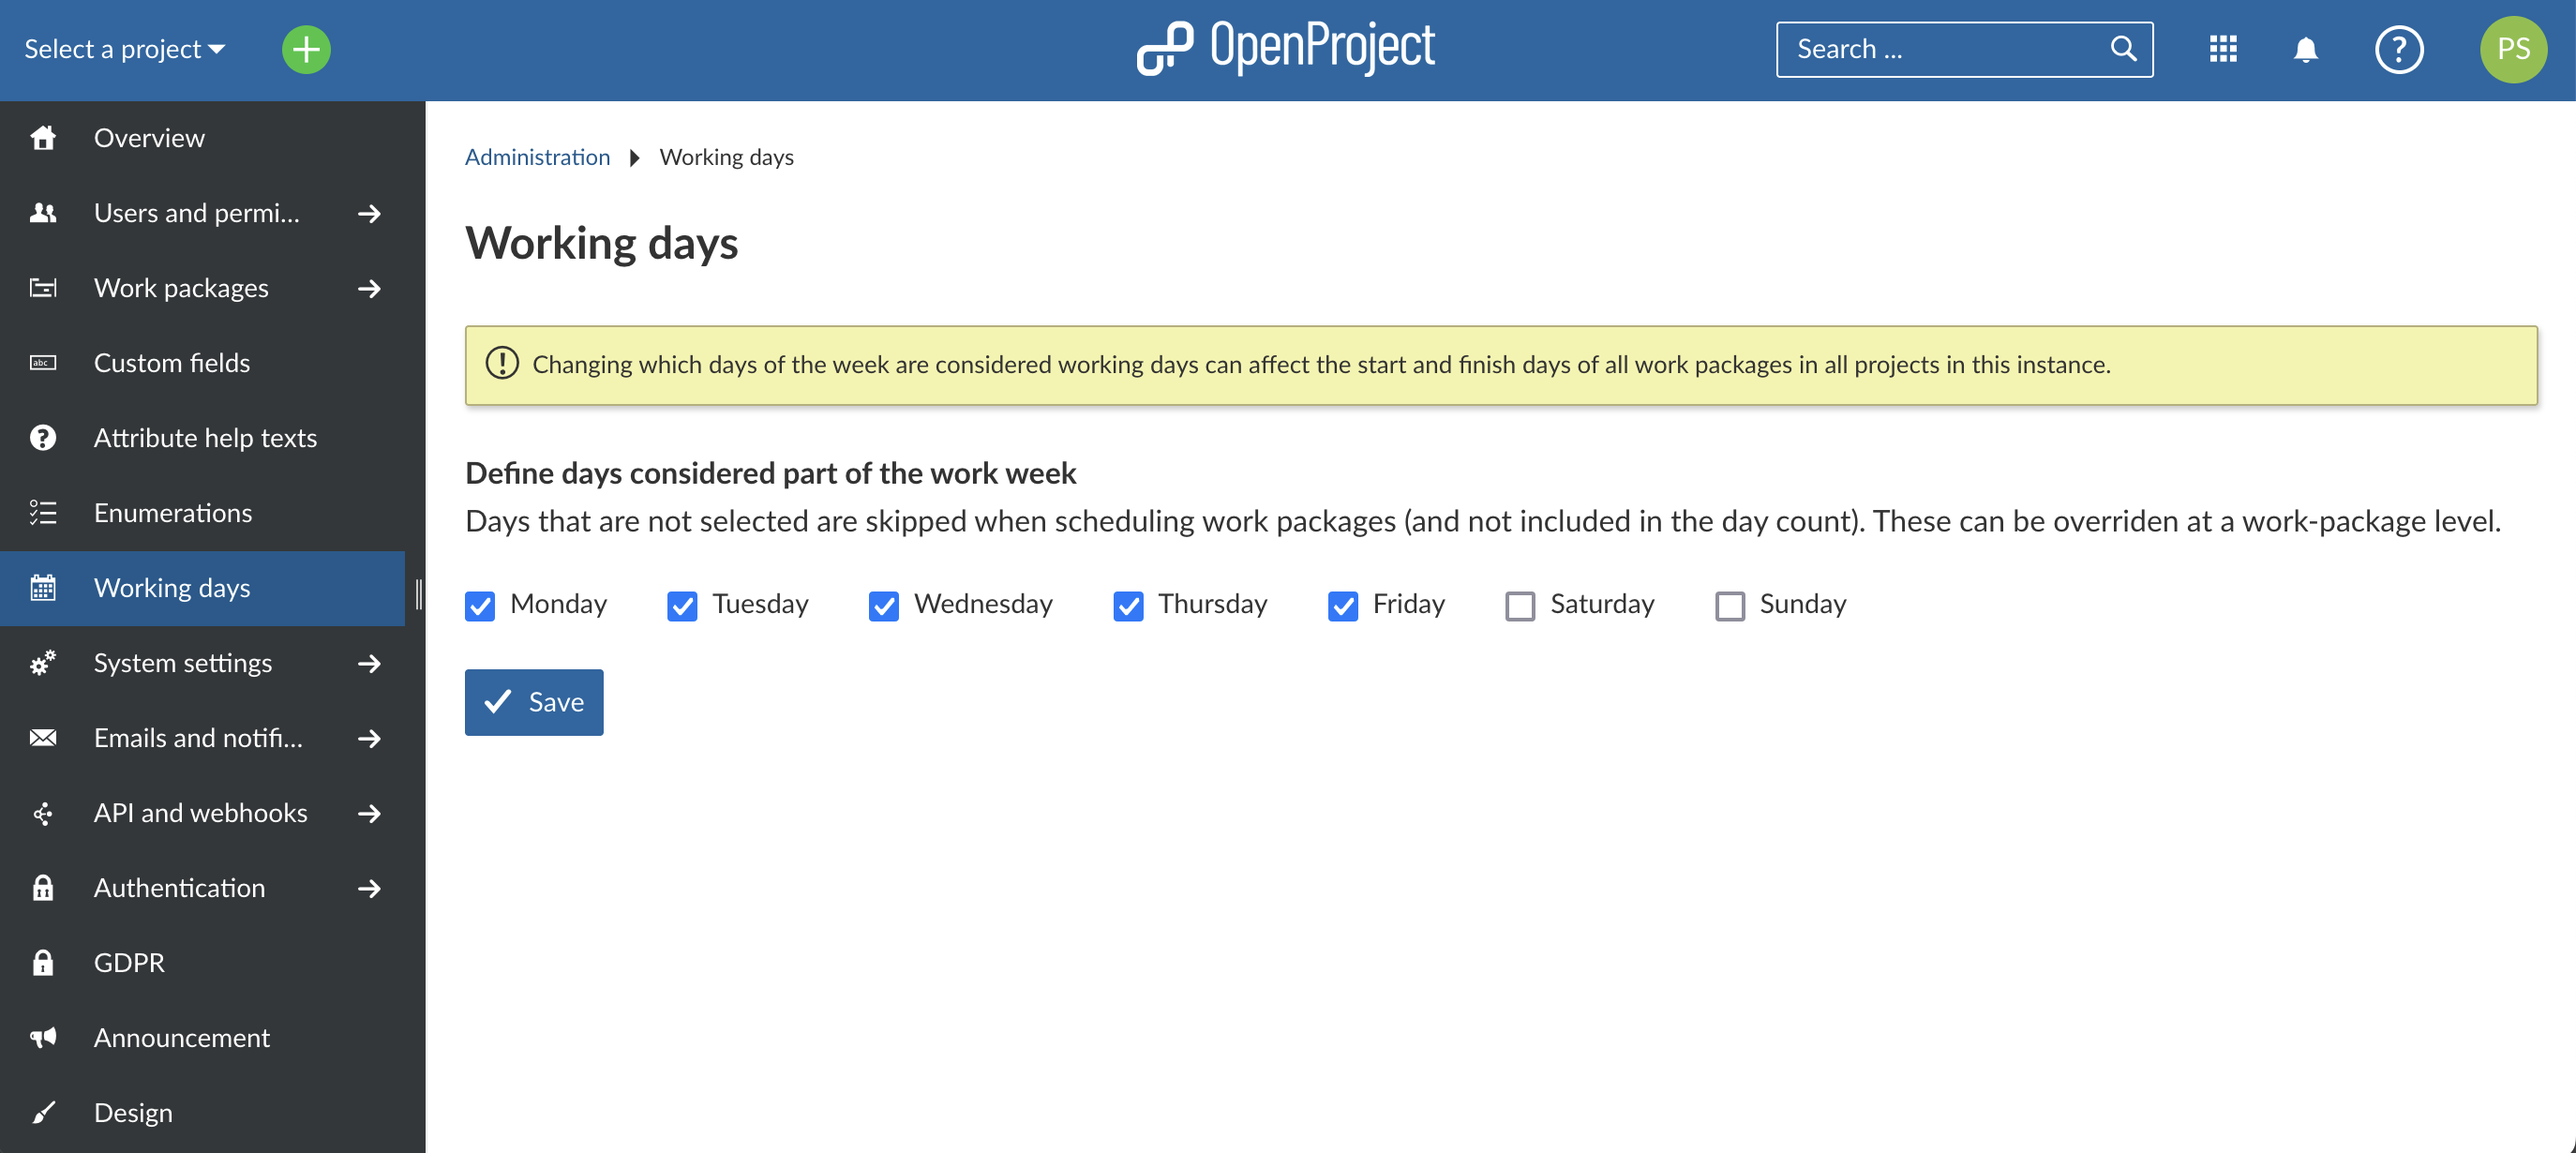
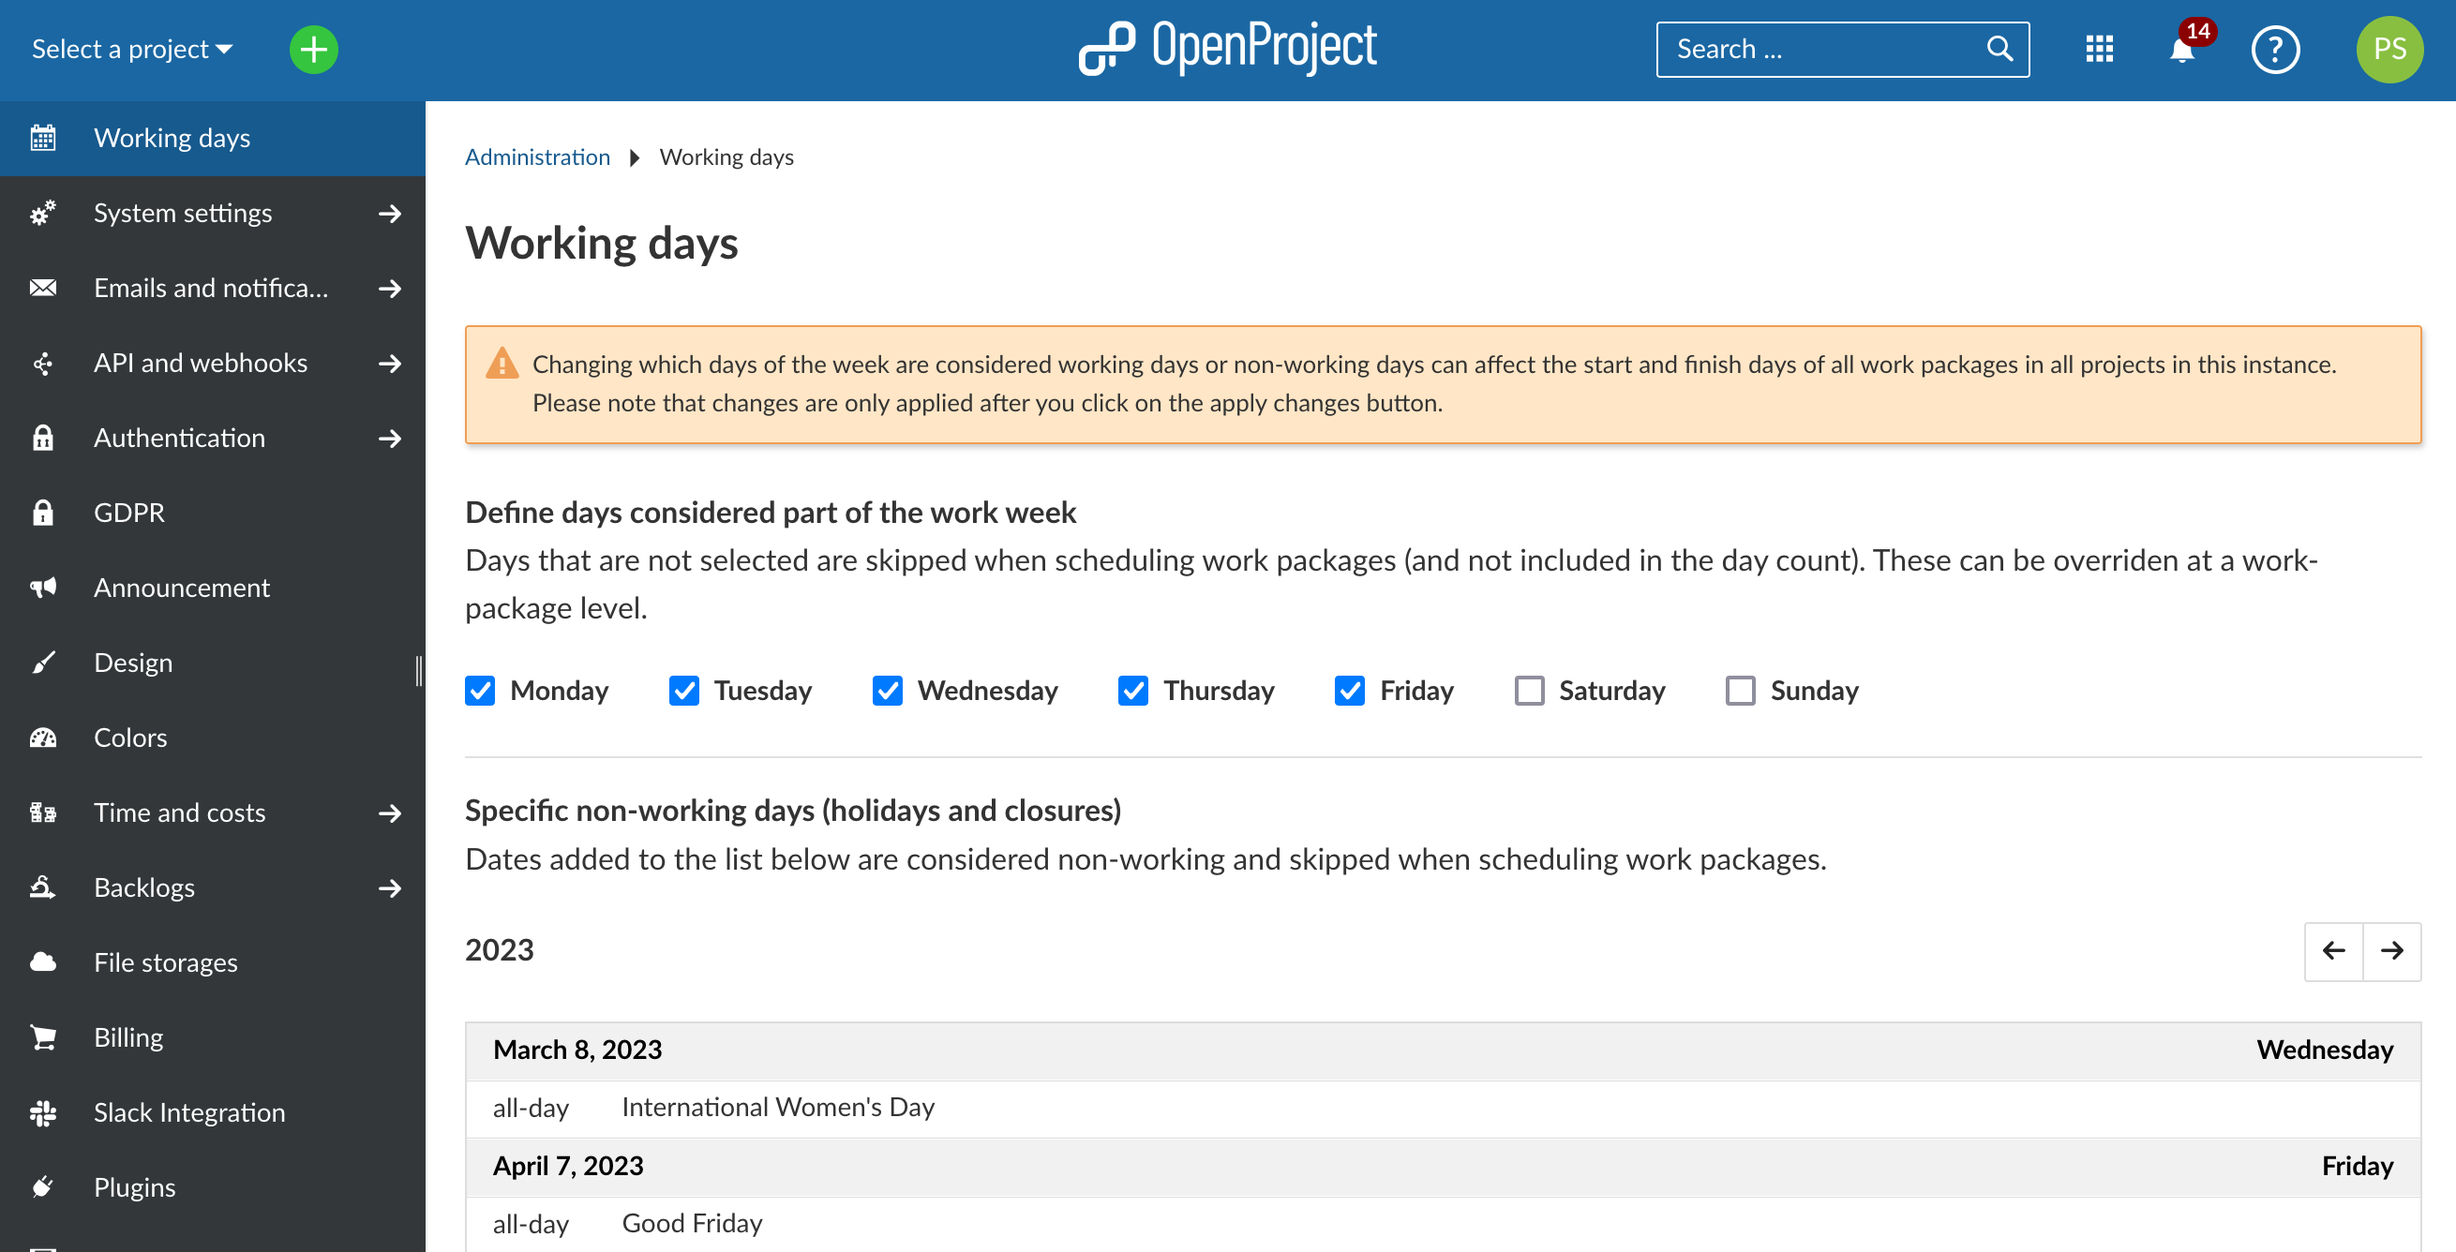
Added missing screenshots
Added missing screenshots on these pages I edited for 12.5:

- Activities
- Work package views
- Non-working days

And this page I had not edited for 12.5:

- Agile boards

diff --git a/docs/user-guide/activity/README.md b/docs/user-guide/activity/README.md
@@ -1,6 +1,6 @@
 ---
 sidebar_navigation:
-  title: Activity
+  title: Project Activity
   priority: 890
 description: Find out about the Activity within a project
 keywords: activity
@@ -14,7 +14,7 @@ OpenProject lets you view an overview of all recent changes within a project. Th
 - project attributes (name, description, custom fields..)
 - other modules (news, budget, wiki edits, forum messages, logged time...)
 
-> IMG
+![Project activity module](project-activity-overview.png)
 
 To view project activity, the **Activity** module must first be enabled.
 
@@ -22,7 +22,7 @@ To view project activity, the **Activity** module must first be enabled.
 
 Within a project, navigate to the **Project settings > Modules** page. Make sure the **Activity** module is enabled and click on the **Save** button at the bottom of the page.
 
-> IMG
+![Enable the Activity module](enable-activity-module.png)
 
 ### Viewing project activity
 
@@ -36,7 +36,7 @@ For each update concerning a work package, you will see:
 - the date and time of the (aggregated) changes
 - a list of attributes that were changed
 
-> IMG: An example of a work package update
+![Work package activity updates](project-activity-workpackge-attributes.png)
 
 Starting with version 12.5, the Activity module also lists changes to project attributes, including project custom fields. For each update, you will see:
 
@@ -45,7 +45,7 @@ Starting with version 12.5, the Activity module also lists changes to project at
 - the date and time of the (aggregated) changes
 - a list of attributes that were changed
 
-> IMG: An example of a project attribute update
+![Work package activity updates](project-activity-project-attributes.png)
 
 ### Filtering project activity
 
@@ -60,7 +60,7 @@ To filter the project activity list, use the filters on the sidebar. You may fil
 
 Additionally, you can choose to include or exclude updates concerning sub-projects. 
 
-> IMG: Filters
+![Project activity filters](project-activity-filter-list.png)
 
 ### How far back can I trace the project activities?
 

diff --git a/docs/system-admin-guide/working-days/README.md b/docs/system-admin-guide/working-days/README.md
@@ -14,7 +14,6 @@ To change this setting, navigate to **Administration → Working days**.
 > **Note:** By default, the five days from Monday–Friday are considered working days, and Saturday and Sunday are considered non-working.
 
 ![The 'Working days' entry in Admin settings ](admin-working-days.png)
-> Update image
 
 To change this setting, unselect days that you would like to define as non-working, and select ones that you would like to consider working, and click on **Save**.
 
@@ -22,11 +21,15 @@ To change this setting, unselect days that you would like to define as non-worki
 
 You can also designate specific dates (such as national or local holidays) as non-working days. Work packages in regular scheduling mode will skip these days and they will not be included when calculating duration.
 
+![Add non-working day link](add-non-working-day-link.png)
+
 Click on **+ Non-working day** to add a new date to the list. In the date picker modal that appears, give this new non-working day a name and select the specific date you would like to add. Click on **Add**. This day will now be a non-working day for all users of the instance.
+
+![Add non-working day modal](add-working-day-modal.png)
 
 Click on **Apply changes** at the end of the page for the changes to take effect.
 
-> IMG
+![Apply changes button](apply-changes-button.png)
 
 ### Effect on scheduling
 
@@ -48,3 +51,4 @@ The non-working days defined here are coloured differently, generally with a dar
 
 
 
+###### 

diff --git a/docs/user-guide/work-packages/work-package-views/README.md b/docs/user-guide/work-packages/work-package-views/README.md
@@ -10,7 +10,7 @@ keywords: work packages views
 
 A list of work packages is considered a view. Each view is based on a set of filter criteria and displays all work packages that meet those criteria. Every project in OpenProject automatically has these default views:
 
-> **IMG**: Default views on the sidebar
+![A list of the default work package views](work-package-views-default.png)
 
 - **All open**: All open work packages ( that is, with statuses that are not defined as _closed_), sorted in ascending order of ID (lowest on top)
 - **Latest activity**: All work packages, open and closed, in descending order of last updated date (latest on top)

diff --git a/docs/user-guide/agile-boards/README.md b/docs/user-guide/agile-boards/README.md
@@ -160,7 +160,7 @@ A **double click on a card** will open the work package's **fullscreen view.** T
 
 Clicking on **Open details view** (the blue "**i**") will open the work package's **[split screen view](../work-packages/work-package-views/#split-screen-view)**. You can close it by clicking on the **"x"** in its upper right corner.
 
-
+![Close split screen button](close-split-screen.png)
 
 ## Remove cards
 
